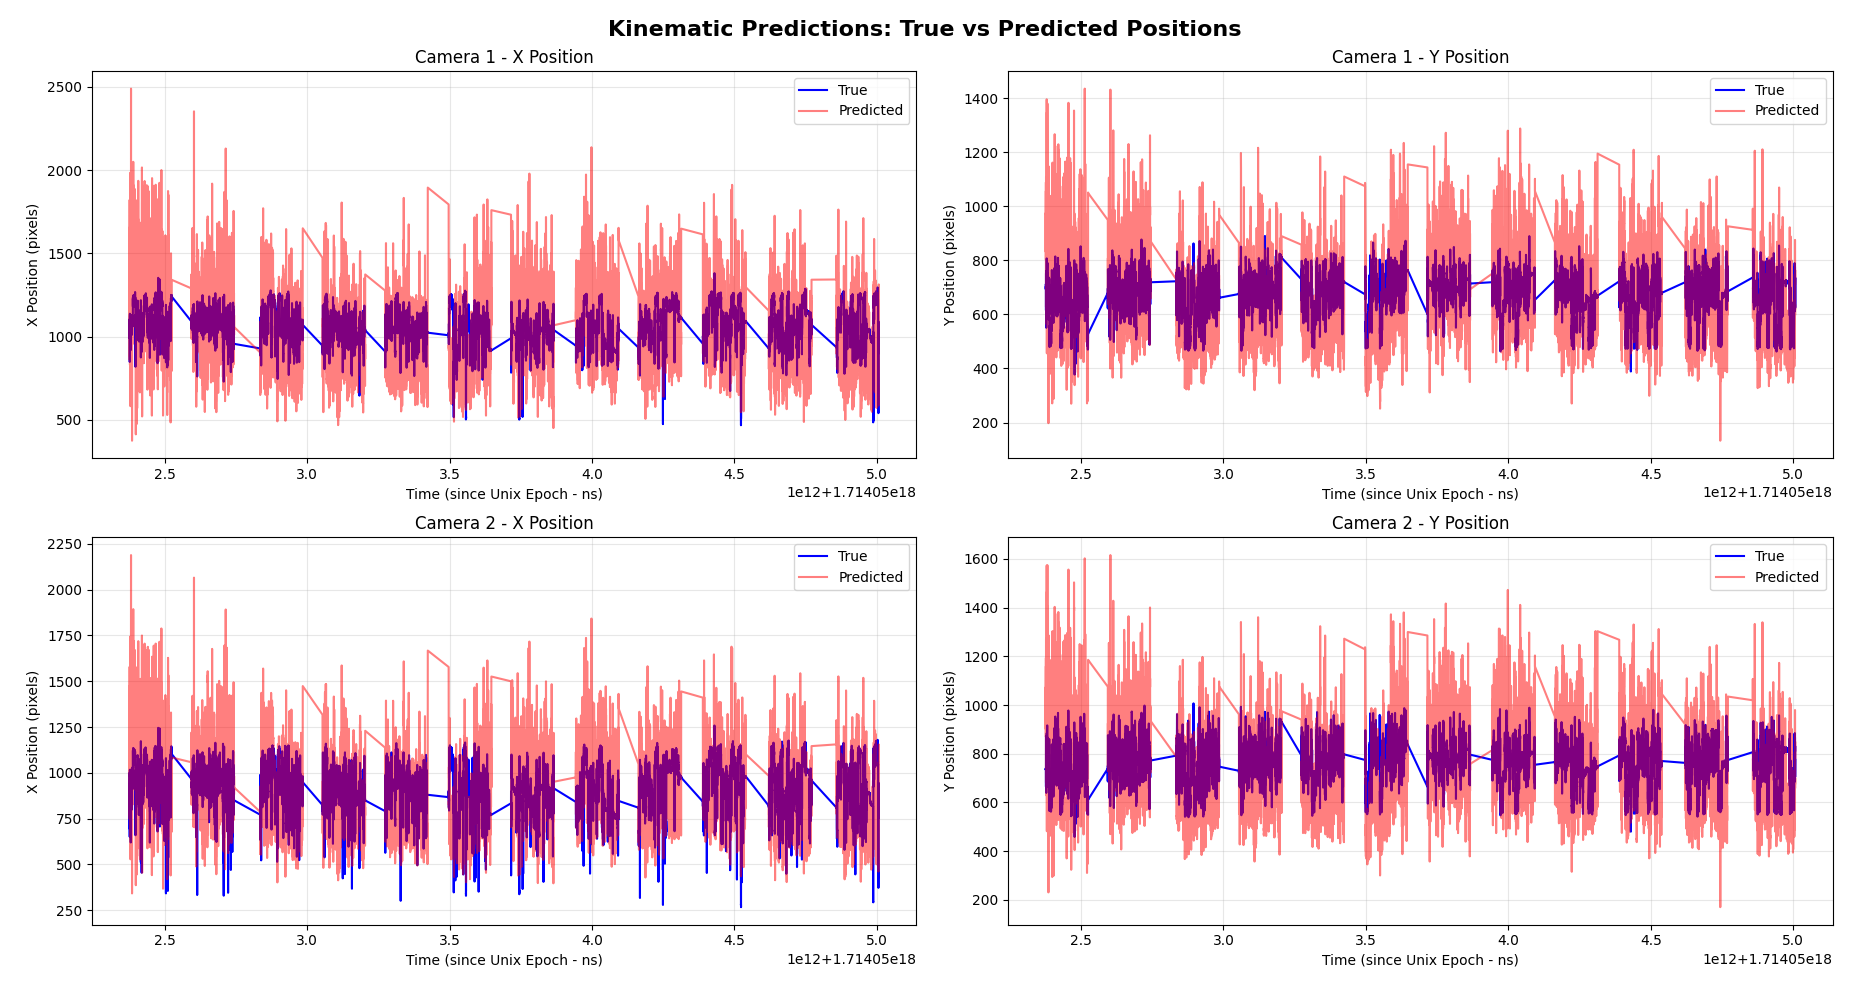
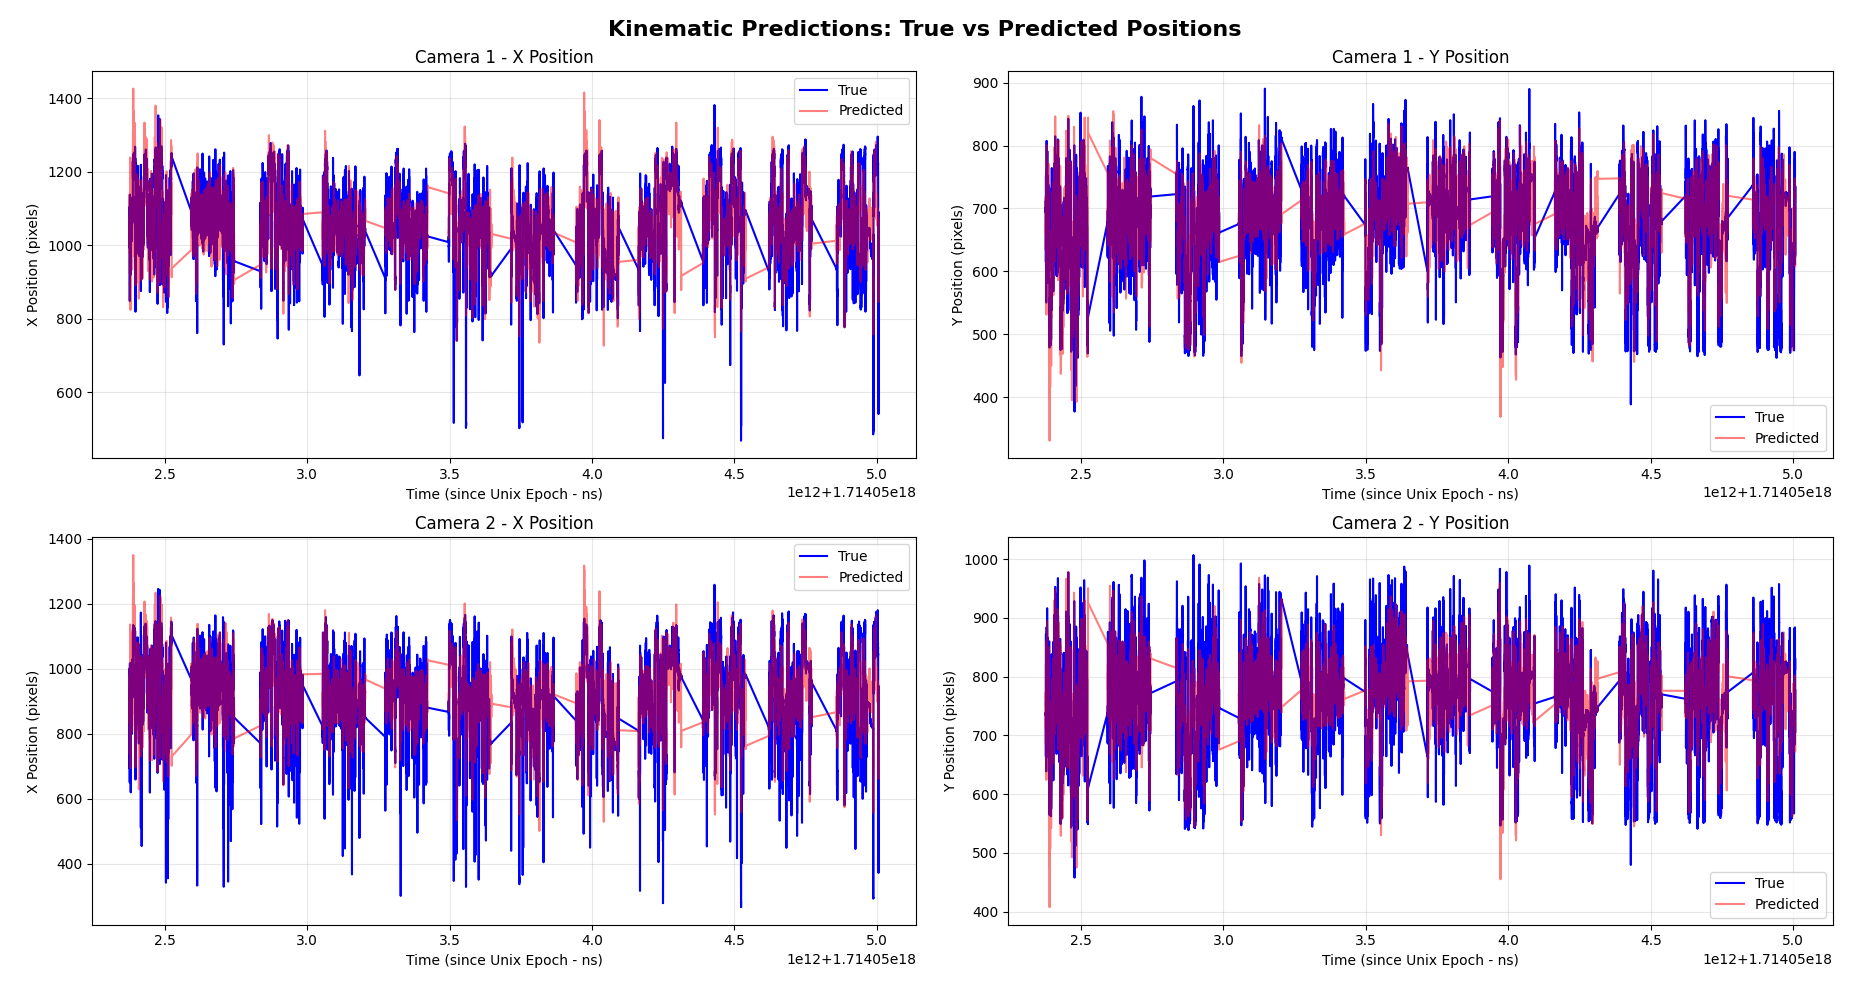
fixed prediction timing, wrote function to score general model performance on certain behaviors. still need to fix saving and plotting functions to go with the changes to predictions

diff --git a/interp.py b/interp.py
@@ -7,7 +7,7 @@ from mouse import MouseDay
 from typing import Optional, Tuple
 from sklearn.model_selection import StratifiedKFold, KFold
 from sklearn.linear_model import Ridge, RidgeCV
-from sklearn.metrics import mean_squared_error, brier_score_loss
+from sklearn.metrics import r2_score
 import plot as myplot
 
 def general_ridge(mouse_day: MouseDay, n_trials: int=10):
@@ -16,6 +16,7 @@ def general_ridge(mouse_day: MouseDay, n_trials: int=10):
     beh_per_frame = mouse_day.get_trimmed_beh_labels()
     scores = []
     weights = []
+    y_preds = []
     # Splitter object
     splitter = StratifiedKFold(n_splits=n_trials, shuffle=True, random_state=42)
 
@@ -27,28 +28,29 @@ def general_ridge(mouse_day: MouseDay, n_trials: int=10):
         y_train, y_test = y[train_idcs], y[test_idcs]
         
         # Cross-validate to find the best alpha
-        ridge = RidgeCV(alphas=[0.1, 1.0, 10.0, 100.0], fit_intercept=False)
+        ridge = RidgeCV(alphas=[0.1, 1.0, 10.0, 100.0], fit_intercept=True)
 
         # Train the model
         ridge.fit(X_train, y_train)
 
         # Evaluate based on R^2
         scores.append(ridge.score(X_test, y_test))
-        weights.append(ridge.coef_)
+
+        # Only predict on test data for this fold
+        y_pred_fold = ridge.predict(X_test)
+        y_preds.append((test_idcs, y_pred_fold))
     
-    # Find the average weights based on each trial's score
-    avg_w = np.zeros(weights[0].shape)
-    score_sum = np.sum(scores)
-    for i, w in enumerate(weights):
-        avg_w += (w * scores[i])
-    avg_w *= (1/score_sum)
+    # Reconstruct full predictions
+    y_pred = np.zeros_like(y)
+    for test_idcs, pred in y_preds:
+        y_pred[test_idcs] = pred
     
-    # Use average weights to make predictions on the kinematics data
-    y_pred = X @ avg_w.T
-    
-    # saves the weights and scores
-    io.save_decoded_data(mouse_day.mouseID, mouse_day.day, avg_w, scores, model_type="general")
-    return avg_w, scores, y, y_pred
+    # saves the preds and scores for plotting purposes
+    # io.save_decoded_data(mouse_day.mouseID, mouse_day.day, scores, model_type="general")
+    # save the ridge objects (just in case)
+
+    return scores, y, y_pred
+
 
 def ridge_by_beh(mouse_day: MouseDay, n_trials: int=10):
     """
@@ -58,7 +60,7 @@ def ridge_by_beh(mouse_day: MouseDay, n_trials: int=10):
     y = mouse_day.get_trimmed_avg_locs()
     beh_per_frame = mouse_day.get_trimmed_beh_labels()
     labels = mouse_day.BEHAVIOR_LABELS
-    all_weights = []
+    all_preds = []
     all_scores = []
 
     for label in labels.keys():
@@ -66,7 +68,7 @@ def ridge_by_beh(mouse_day: MouseDay, n_trials: int=10):
         curr_X = X[beh_frames]
         curr_y = y[beh_frames]
         scores = []
-        weights = []
+        y_preds = []
         
         # KFold CV on the current behavior's data
         splitter = KFold(n_splits=n_trials, shuffle=True, random_state=42)
@@ -82,30 +84,102 @@ def ridge_by_beh(mouse_day: MouseDay, n_trials: int=10):
 
             # Evaluate based on R^2
             scores.append(ridge.score(X_test, y_test))
-            weights.append(ridge.coef_)
-        
-        # Find the average weights based on each trial's score
-        avg_w = np.zeros(weights[0].shape)
-        score_sum = np.sum(scores)
-        for i, w in enumerate(weights):
-            avg_w += (w * scores[i])
-        avg_w *= (1/score_sum)
-        print(f"Average weights for {label}th behavior: ", avg_w)
-        print(f"Scores for {label}th behavior: ", scores)
-        
-        all_weights.append(avg_w)
-        all_scores.append(scores)
-    
-    # A list of predictions by model
-    y_preds = []
-    for weights in all_weights:
-        y_preds.append(X @ weights.T)
-    
-    # save weights and scores
-    for label, weights, scores in zip(labels.values(), all_weights, all_scores):
-        io.save_decoded_data(mouse_day.mouseID, mouse_day.day, weights, scores, model_type=label)
 
-    return all_weights, all_scores, y, y_preds
+            # Predict locations for this test fold
+            # Only predict on test data for this fold
+            y_pred_fold = ridge.predict(X_test)
+            y_preds.append((test_idcs, y_pred_fold))
+        
+        # Reconstruct full predictions FOR THIS BEHAVIOR MODEL
+        y_pred = np.zeros_like(y)
+        for test_idcs, pred in y_preds:
+            y_pred[test_idcs] = pred
+
+        all_preds.append(y_pred)
+        all_scores.append(scores)
+
+    # save scores
+    # for label, scores in zip(labels.values(), all_scores):
+    #     io.save_decoded_data(mouse_day.mouseID, mouse_day.day, scores, model_type=label)
+
+    return all_scores, y, y_preds
+
+
+def ridge_test_by_beh(mouse_day: MouseDay, ntrials: int=10):
+    """
+    Training a general model, holding out certain samples that are representative of behavior... then testing that general model by samples grouped by behavior. 
+    """
+    X = mouse_day.get_trimmed_spks()
+    y = mouse_day.get_trimmed_avg_locs()
+    beh_per_frame = mouse_day.get_trimmed_beh_labels()
+
+    # Holding testing data by behavior
+    X_beh_test: dict[int, np.ndarray] = {}
+    y_beh_test: dict[int, np.ndarray] = {}
+
+    X_gen = np.zeros((1, 420))
+    y_gen = np.zeros((1, 4))
+    beh_per_frame_gen = []
+
+    # 1: need to hold out samples of each behavior
+    behaviors = mouse_day.BEHAVIOR_LABELS
+    for label in behaviors.keys():
+        beh_frames = np.where(beh_per_frame == label)
+        beh_X = X[beh_frames]
+        beh_y = y[beh_frames]
+        
+        indices = np.arange(len(beh_X))
+        np.random.shuffle(indices)
+        beh_X = beh_X[indices]
+        beh_y = beh_y[indices]
+
+        # 70/30 split: 70% of these samples will go towards training the general model, the 30% will be tested on
+        # vibes based we can see how performance changes if we adjust this split
+        holdout_idx = int(.3 * len(beh_X))
+        holdout_X, holdout_y = beh_X[:holdout_idx], beh_y[:holdout_idx]
+        using_X, using_y = beh_X[holdout_idx:], beh_y[holdout_idx:]
+
+        X_beh_test[label] = holdout_X
+        y_beh_test[label] = holdout_y
+        
+        beh_per_frame_gen += [label] * len(using_y)
+    
+        X_gen = np.vstack((X_gen, using_X))
+        y_gen = np.vstack((y_gen, using_y))
+
+    X_gen = X_gen[1:]
+    y_gen = y_gen[1:]
+
+    # 2: train a model
+    scores_by_beh: dict[int, list[float]] = {}
+    preds_by_beh: dict[int, list[float]] = {}
+    for label in behaviors.keys():
+        scores_by_beh[label] = []
+        preds_by_beh[label] = []
+
+    splitter = StratifiedKFold(n_splits=ntrials, shuffle=True, random_state=42)
+    for i, (train_idcs, test_idcs) in enumerate(splitter.split(X_gen, beh_per_frame_gen)):
+        print("Training Split: ", i)
+        X_train = X_gen[train_idcs]
+        y_train = y_gen[train_idcs]
+        
+        # Cross-validate to find the best alpha
+        ridge = RidgeCV(alphas=[0.1, 1.0, 10.0, 100.0], fit_intercept=True)
+
+        # Train the model
+        ridge.fit(X_train, y_train)
+
+        # Evaluate fold model performance and predict on each behavior data
+        for label in X_beh_test.keys():
+            X_test = X_beh_test[label]
+            y_test = y_beh_test[label]
+
+            scores_by_beh[label].append(ridge.score(X_test, y_test)) # 10 scores per behavior (10 folds)
+            preds_by_beh[label].append(ridge.predict(X_test)) # every fold is going to have different predictions for the same testing data...
+            
+    
+    return scores_by_beh, y_beh_test, preds_by_beh
+
       
 def latency_check(mouse_day: MouseDay):
     print("# of timestamps (calcium): ", test_mouse.cal_ntimestamps)
@@ -141,8 +215,14 @@ if __name__ == "__main__":
     # latency_check(test_mouse)
     # dimensions_check(test_mouse)
 
-   #  gen_weights, gen_scores, y, y_pred = general_ridge(test_mouse)
+    # gen_scores, y, y_pred = general_ridge(test_mouse)
+    # print(gen_scores)
+    # print(y_pred)
+
     # print(avg_weights)
     # print(scores)
-    all_weights, all_scores, y, y_preds = ridge_by_beh(test_mouse)
+    # all_weights, all_scores, y, y_preds = ridge_by_beh(test_mouse)
     # myplot.plot_r2_scores(test_mouse.BEHAVIOR_LABELS, beh_scores, gen_scores)
+    
+    scores_by_beh, y_beh_test, preds_by_beh = ridge_test_by_beh(test_mouse)
+    print(scores_by_beh)

diff --git a/plot.py b/plot.py
@@ -310,10 +310,7 @@ def plot_kin_predictions(mouse_day: MouseDay, figsize: Tuple[int, int]=(16, 10))
     Each column holds the following data:
     cam1_x cam1_y cam2_x cam2_y
     """
-    w = io.load_decoded_weights(mouse_day.mouseID, mouse_day.day)
-    X = mouse_day.get_trimmed_spks()
-    true_positions = mouse_day.get_trimmed_avg_locs()
-    pred_positions = X @ w
+    gen_scores, true_positions, pred_positions = interp.general_ridge(mouse_day)
 
     fig, axes = plt.subplots(nrows=2, ncols=2, figsize=figsize)
     trimmed_tstamps = mouse_day.get_trimmed_cal_tstamps()
@@ -393,7 +390,7 @@ if __name__ == "__main__":
     event_key = event_keys[0]  # Use first available key
     
     # Plotting Ridge Regression results
-    fig2 = plot_kin_predictions_by_model(mouse_day)
+    fig2 = plot_kin_predictions(mouse_day)
     plt.show()
 
     # Create comprehensive plot

diff --git a/mouse.py b/mouse.py
@@ -382,7 +382,8 @@ class MouseDay:
         Returns a numpy array of size (n_timepoints x n_neurons)
         Represents the estimated spike probabilities across all timepoints
         """
-        return self.cal_spks[:, 32:-32].T
+        trimmed_arr = self.cal_spks[:, 32:-32].T
+        return trimmed_arr
 
     def get_trimmed_avg_locs(self):
         """
